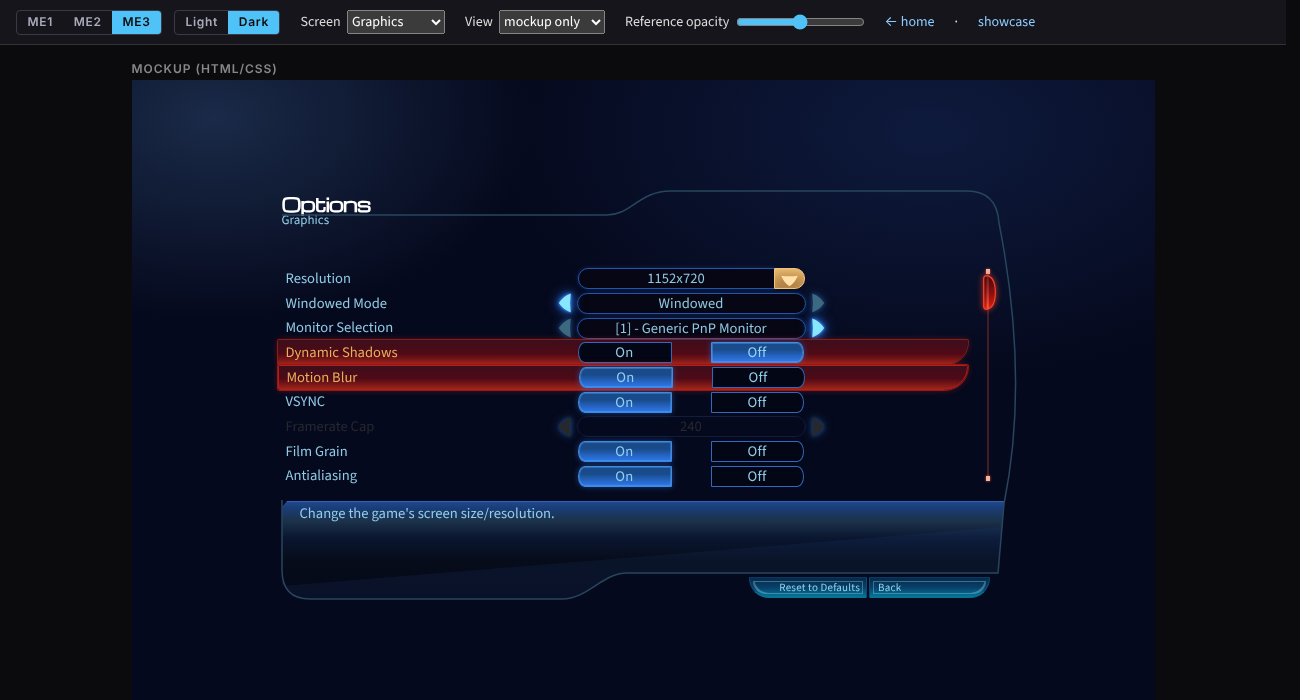
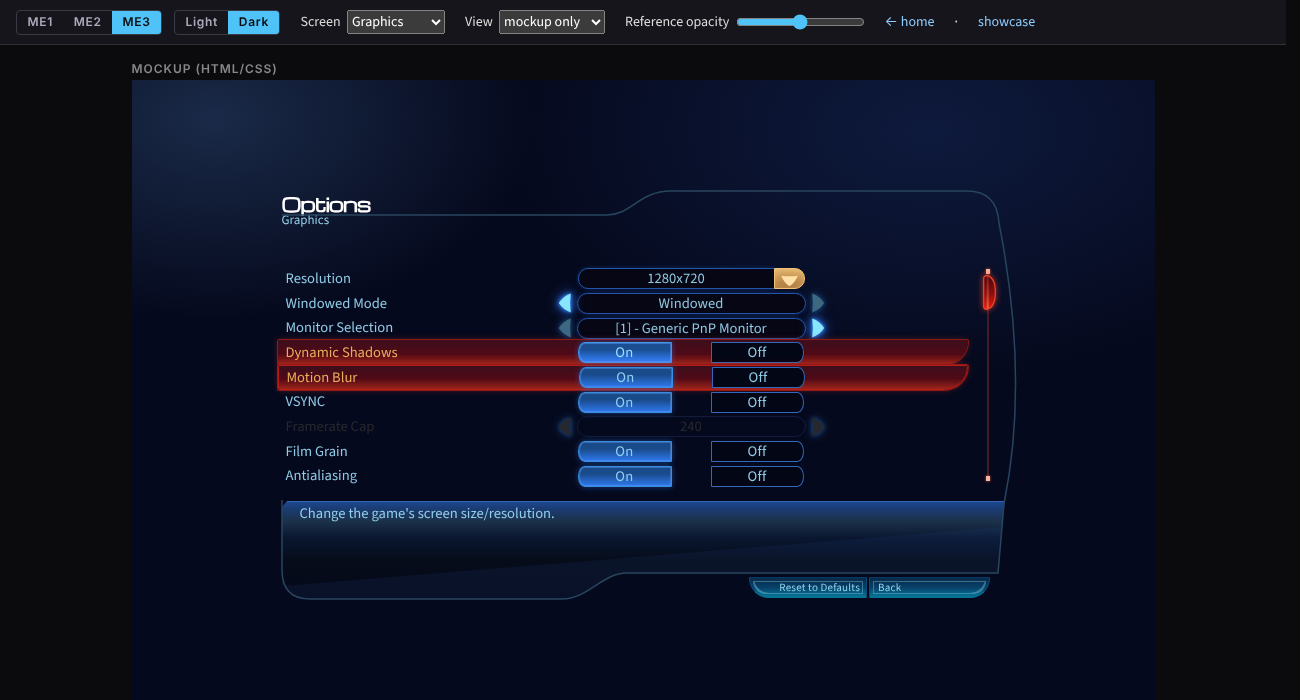
Mockups: dropdown styled as the game's picker
The option list was a generic box (square, plain border, solid stripe, large inner
scrollbar) and wider than the value. It now uses the picker's own look per game
(ME3 rounded navy box with blue rim/glow, current value as the red selected pill,
blue hover pill; ME2 copper with green value; ME1 square navy with orange value),
fits all options without scrolling and is aligned to the value box + drop button.

Claude-Session: https://claude.ai/code/session_01432u56rirgbsheg195g8Sk

Changed region(s): [[0.4308, 0.48, 0.6154, 0.54], [0.4923, 0.39, 0.5231, 0.42]]

diff --git a/mockups/mock.css b/mockups/mock.css
@@ -255,19 +255,24 @@ html[data-bs-theme="light"] .scr-frame path.scr-desc { fill: #d5e6f0; }
 .stage .me-row:not(.disabled):not(.group) { cursor: pointer; }
 .stage .me-row .me-arrow, .stage .me-onoff .btn-check, .stage .key-cell, .stage .me-foot .btn { cursor: pointer; }
 .stage .form-range-input { pointer-events: auto; cursor: ew-resize; }
-.mock-drop { position: absolute; z-index: 40; max-height: 180px; overflow: auto; display: flex; flex-direction: column; padding: 2px 0;
-  background: #071026; border: 1px solid #3b6fc0; box-shadow: 0 6px 18px rgb(0 0 0 / 55%); font-size: 13.5px; }
-.mock-drop > button { all: unset; padding: 3px 10px; color: #a9d4ea; cursor: pointer; white-space: nowrap; text-align: center; }
-.mock-drop > button:hover, .mock-drop > button:focus-visible { background: #12346b; color: #fff; }
-.mock-drop > button[aria-selected="true"] { background: #6e130f; color: #ffd08a; }
-.stage[data-me="me2"] ~ .mock-drop, .stage[data-me="me2"] .mock-drop { background: #1b0f0a; border-color: #c08a50; }
-.stage[data-me="me2"] .mock-drop > button { color: #f0c48a; }
-.stage[data-me="me2"] .mock-drop > button:hover { background: #4a2e1b; }
-.stage[data-me="me2"] .mock-drop > button[aria-selected="true"] { background: #3f5a25; color: #d8ffb0; }
-.stage[data-me="me1"] .mock-drop { background: #0b1d33; border-color: #4093ae; font: 700 10.5px "Michroma", sans-serif; }
-.stage[data-me="me1"] .mock-drop > button { color: #5fc3ec; text-align: left; }
-.stage[data-me="me1"] .mock-drop > button:hover { background: #133555; }
-.stage[data-me="me1"] .mock-drop > button[aria-selected="true"] { background: #8a3a12; color: #ffd2a8; }
-html[data-bs-theme="light"] .mock-drop { background: #f3f8fb; }
-html[data-bs-theme="light"] .mock-drop > button { color: #0e3955; }
-html[data-bs-theme="light"] .mock-drop > button:hover { background: #d3e6f0; }
+/* Expanded picker = the game's picker widgets: same box, same font, current value marked like the selected row.
+   All options fit (no inner scrollbar); per game: ME3 rounded navy box + blue rim/glow, red pill for the value;
+   ME2 copper box, green value; ME1 square navy box, orange value. */
+.mock-drop { position: absolute; z-index: 40; max-height: 300px; overflow: auto; display: flex; flex-direction: column; gap: 1px; padding: 4px; box-sizing: border-box; }
+.mock-drop > button { all: unset; box-sizing: border-box; height: 21px; line-height: 19px; padding: 0 10px; border: 1px solid transparent; white-space: nowrap; text-align: center; cursor: pointer; }
+.stage[data-me="me3"] .mock-drop { background: linear-gradient(180deg, #0a1736, #050b1d 60%, #04091a); border: 1px solid #2455a9; border-radius: 11px;
+  box-shadow: 0 0 6px rgb(40 110 230 / 45%), 0 8px 18px rgb(0 0 0 / 60%); font-size: 14.6px; }
+.stage[data-me="me3"] .mock-drop > button { color: #a9d4ea; border-radius: 10px; }
+.stage[data-me="me3"] .mock-drop > button:hover, .stage[data-me="me3"] .mock-drop > button:focus-visible { color: #fff; background: linear-gradient(180deg, #123a7a, #0c2552); border-color: #2f6fd0; }
+.stage[data-me="me3"] .mock-drop > button[aria-selected="true"] { color: #ffd08a; background: linear-gradient(180deg, #8e1a12, #5a0a0c 55%, #74110d); border-color: #c02b1d; box-shadow: 0 0 6px rgb(255 70 40 / 45%); }
+.stage[data-me="me2"] .mock-drop { background: #24150d; border: 1px solid #e5a55c; box-shadow: 0 8px 18px rgb(0 0 0 / 60%); font-size: 13.2px; }
+.stage[data-me="me2"] .mock-drop > button { color: #e1a25a; }
+.stage[data-me="me2"] .mock-drop > button:hover, .stage[data-me="me2"] .mock-drop > button:focus-visible { background: #6c4c2e; border-color: #e5a55c; color: #ffd9a8; }
+.stage[data-me="me2"] .mock-drop > button[aria-selected="true"] { background: #527233; border-color: #9be85c; color: #e6ffcc; }
+.stage[data-me="me1"] .mock-drop { background: linear-gradient(180deg, #101f37, #133555); border: 1px solid #4093ae; box-shadow: 0 8px 18px rgb(0 0 0 / 60%); font: 700 10.2px "Michroma", sans-serif; }
+.stage[data-me="me1"] .mock-drop > button { height: 18px; line-height: 16px; color: #2d95c4; -webkit-text-stroke: .3px currentColor; }
+.stage[data-me="me1"] .mock-drop > button:hover, .stage[data-me="me1"] .mock-drop > button:focus-visible { background: #0f2c48; border-color: #2a5a78; color: #5fc3ec; }
+.stage[data-me="me1"] .mock-drop > button[aria-selected="true"] { background: linear-gradient(90deg, #8a3a12, #5c2610); border-color: #ff8d3e; color: #ffd2a8; }
+html[data-bs-theme="light"] .stage .mock-drop { background: #f3f8fb; }
+html[data-bs-theme="light"] .stage .mock-drop > button:not([aria-selected="true"]) { color: #0e3955; }
+html[data-bs-theme="light"] .stage .mock-drop > button:not([aria-selected="true"]):hover { background: #d3e6f0; }

diff --git a/mockups/mock.js b/mockups/mock.js
@@ -291,10 +291,13 @@
   function openDrop(r, rowEl) {
     closeDrop(); if (r.dis) return;
     // position in the stage's own CSS px (offsets, not screen rects: the view may be zoomed to fit the window)
-    var stg = document.getElementById('stage'), pk = rowEl.querySelector('.me-picker'), x = 0, y = 0;
-    for (var e = pk; e && e !== stg; e = e.offsetParent) { x += e.offsetLeft; y += e.offsetTop; }
+    // aligned with the value box (+ drop button), not the whole picker (which has padding / arrows)
+    var stg = document.getElementById('stage'), pk = rowEl.querySelector('.me-picker'), val = pk.querySelector('.me-picker-value'), drp = pk.querySelector('.me-picker-drop');
+    var x = 0, y = 0, x1 = 0;
+    for (var e = val; e && e !== stg; e = e.offsetParent) { x += e.offsetLeft; y += e.offsetTop; }
+    if (drp) { for (e = drp; e && e !== stg; e = e.offsetParent) x1 += e.offsetLeft; x1 += drp.offsetWidth; } else x1 = x + val.offsetWidth;
     var d = document.createElement('div'); d.className = 'mock-drop'; d.setAttribute('role', 'listbox');
-    d.style.left = x + 'px'; d.style.top = (y + pk.offsetHeight + 2) + 'px'; d.style.width = pk.offsetWidth + 'px';
+    d.style.left = x + 'px'; d.style.top = (y + val.offsetHeight + 3) + 'px'; d.style.width = (x1 - x) + 'px';
     optsFor(r).forEach(function (v) {
       var o = document.createElement('button'); o.type = 'button'; o.textContent = v; o.setAttribute('role', 'option');
       if (v === r.v) o.setAttribute('aria-selected', 'true');
